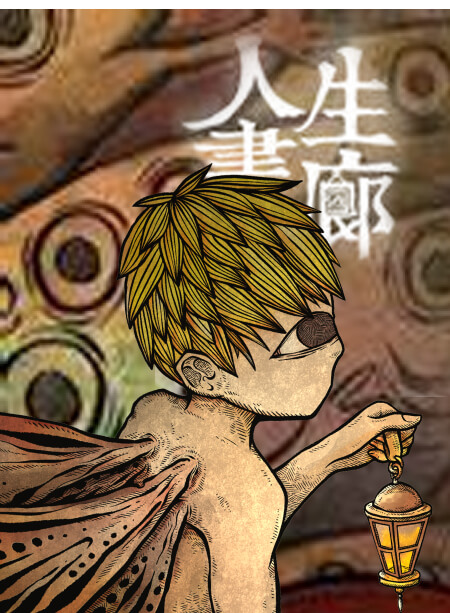
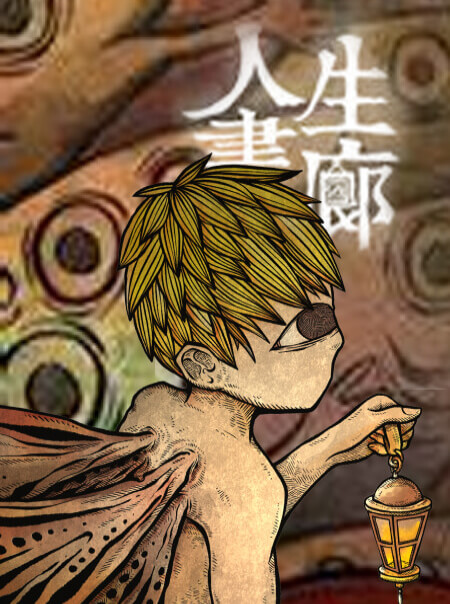
[智能推薦] 加上相對應的遊戲連結  / 某幾張圖片再壓縮

diff --git a/AI_test_results.html b/AI_test_results.html
@@ -37,7 +37,9 @@
                         <h2 class="top_game_name">{{game.name}}</h2>
                     </div>
                 </div>
-                <button class="more_games_button"> <a href="./product_cate.html">查看更多此類型的遊戲</a></button>
+                <button class="more_games_button">
+                    <a :href="'./product_cate.html?cateId='+gameTypeNum">查看更多此類型的遊戲</a>
+                </button>
                 <button class="share_img_button"><a href="./AI_test_share.html">取得結果圖</a></button>
             </div>
         </section>
@@ -52,6 +54,7 @@
         Vue.createApp({
             data() {
                 return {
+                    gameTypeNum: "",
                     gameType: "",
                     gameTypeContent: "",
                     games: []
@@ -62,6 +65,7 @@
 
                 let gameTypeNum = JSON.parse(localStorage.getItem("options"));
                 // console.log(gameTypeNum);
+                this.gameTypeNum = gameTypeNum;
 
                 axios.get(php_url + 'AI_test_results.php', {
                     params: { gameTypeNum: gameTypeNum }
